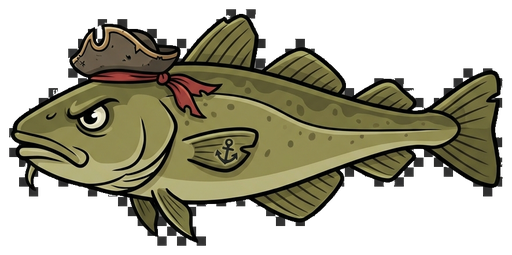
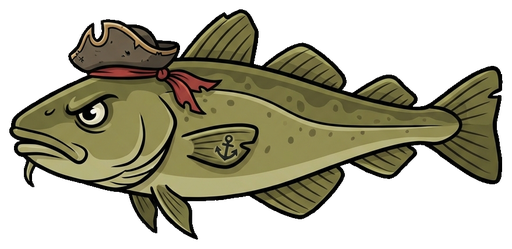
fix(art): remove remaining dark checkerboard fringe from cod

diff --git a/scripts/normalize_fish_art.py b/scripts/normalize_fish_art.py
@@ -23,7 +23,7 @@ def clean(path: Path, output: Path) -> dict:
             shutil.copyfile(path, output)
         return {'file': path.name, 'status': 'already transparent; unchanged'}
     rgb = pixels[:, :, :3].astype(np.int16)
-    eligible = (rgb.max(axis=2) - rgb.min(axis=2) <= 18) & (rgb.min(axis=2) >= 52)
+    eligible = (rgb.max(axis=2) - rgb.min(axis=2) <= 18) & (rgb.min(axis=2) >= (25 if path.stem == "cod" else 52))
     labels, _ = ndimage.label(eligible)
     border_ids = np.unique(np.concatenate((labels[0], labels[-1], labels[:, 0], labels[:, -1])))
     border_ids = border_ids[border_ids != 0]
